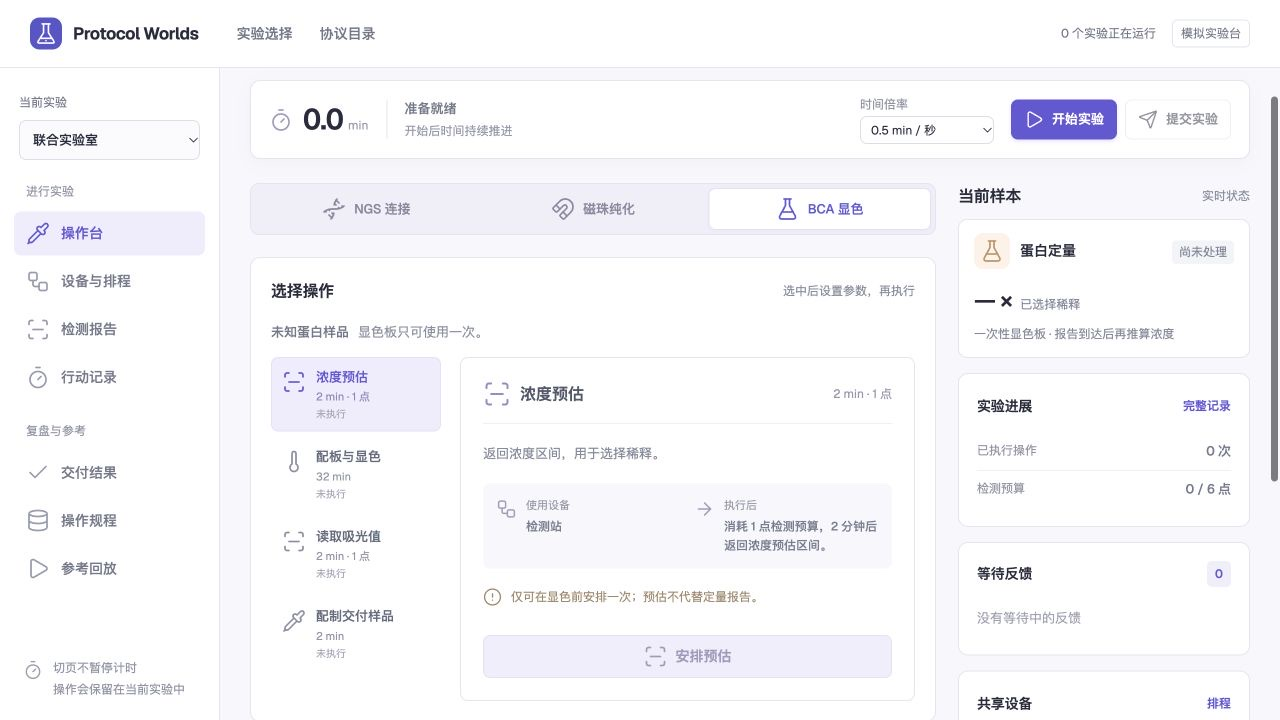
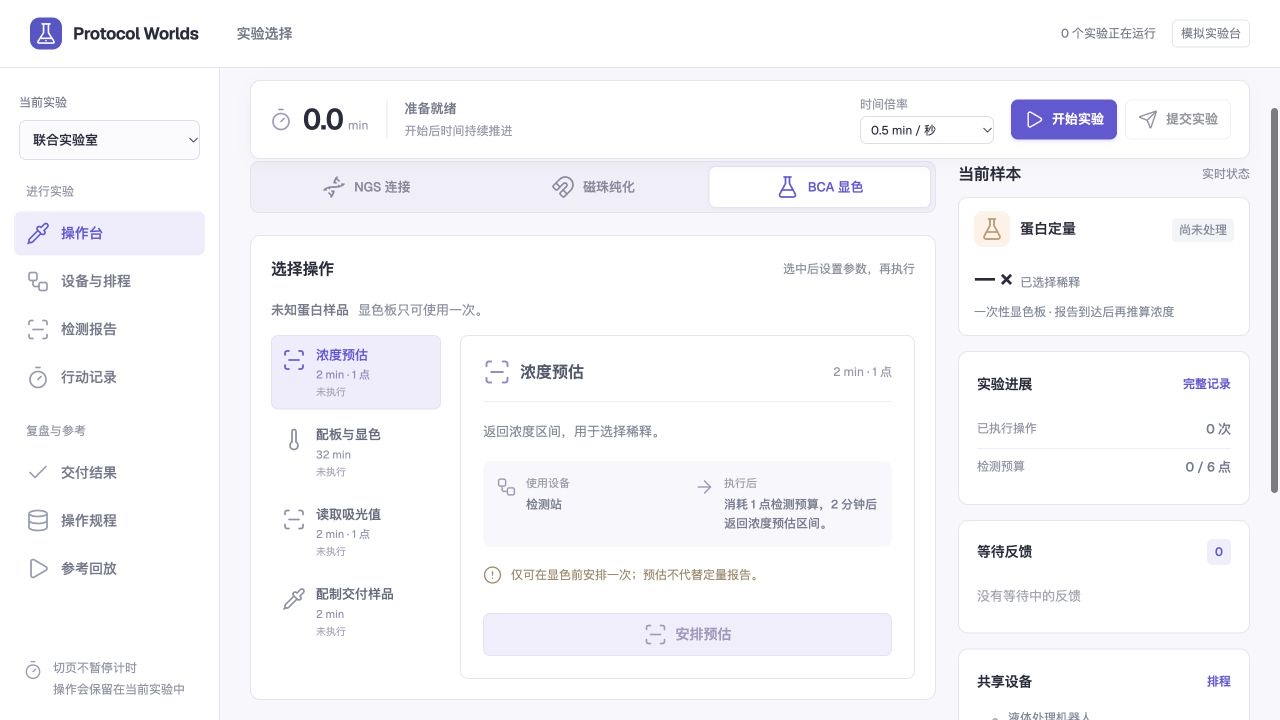
Remove protocol catalog from public lab demo

diff --git a/science-lab/lab/layout.css b/science-lab/lab/layout.css
@@ -133,10 +133,10 @@ h3 { font-size: 15px; }
 .sidebar-bottom .icon { width: 20px; height: 20px; margin-top: 2px; }
 .main-shell { grid-column: 2; grid-row: 2; min-width: 0; }
 main { width: 100%; max-width: 1440px; margin: 0 auto; padding: 27px 30px 48px; min-width: 0; }
-.app-shell[data-page='experiments'], .app-shell[data-page='catalog'] { grid-template-columns: minmax(0, 1fr); }
-.app-shell[data-page='experiments'] .sidebar, .app-shell[data-page='catalog'] .sidebar { display: none; }
-.app-shell[data-page='experiments'] .main-shell, .app-shell[data-page='catalog'] .main-shell { grid-column: 1; }
-.app-shell[data-page='experiments'] main, .app-shell[data-page='catalog'] main { max-width: 1240px; padding-top: 48px; }
+.app-shell[data-page='experiments'] { grid-template-columns: minmax(0, 1fr); }
+.app-shell[data-page='experiments'] .sidebar { display: none; }
+.app-shell[data-page='experiments'] .main-shell { grid-column: 1; }
+.app-shell[data-page='experiments'] main { max-width: 1240px; padding-top: 48px; }
 .mobile-menu { display: none; }
 
 /* Choosing an experiment is a separate, spacious landing page. */
@@ -335,7 +335,6 @@ main { width: 100%; max-width: 1440px; margin: 0 auto; padding: 27px 30px 48px; 
 .page-heading { margin: 28px 0 23px; }
 .page-heading h2 { font-size: 22px; font-weight: 600; }
 .page-heading p { margin-top: 7px; color: #858a9c; font-size: 14px; }
-#catalog-view .page-heading { margin-top: 0; }
 #view-schedule > .panel + .panel { margin-top: 21px; }
 .equipment-panel #resources { display: grid; grid-template-columns: repeat(2, minmax(0, 1fr)); column-gap: 32px; }
 .resource { display: flex; justify-content: space-between; align-items: center; gap: 12px; padding: 12px 0; border-bottom: 1px solid #eeedf5; font-size: 13px; }
@@ -406,25 +405,6 @@ main { width: 100%; max-width: 1440px; margin: 0 auto; padding: 27px 30px 48px; 
 .replay summary { color: #8b80a9; }
 .replay ol { padding-left: 23px; }
 .replay li { margin: 9px 0; }
-.catalog-tools { display: flex; align-items: center; gap: 16px; margin: 27px 0 22px; }
-.search-field { display: flex; align-items: center; gap: 9px; flex: 1; min-width: 0; padding: 0 13px; border: 1px solid var(--line); border-radius: 7px; background: #fff; }
-.search-field .icon { color: #a5a8b7; }
-.search-field input { width: 100%; min-width: 0; min-height: 44px; padding-left: 0; border: 0; background: transparent; }
-.search-field:focus-within { outline: 3px solid #a39af0; outline-offset: 3px; }
-.search-field input:focus-visible { outline: none; }
-.filter-field { display: flex; align-items: center; gap: 10px; color: #8e93a5; font-size: 12px; }
-.filter-field select { min-height: 44px; max-width: 220px; font-size: 13px; }
-#catalog-count { color: #9197a8; font-size: 12px; white-space: nowrap; }
-.catalog-grid { display: grid; grid-template-columns: repeat(3, minmax(0, 1fr)); gap: 19px; }
-.catalog-card { min-width: 0; padding: 23px; border: 1px solid var(--line); border-radius: 10px; background: #fff; overflow-wrap: anywhere; }
-.catalog-card h2 { color: #687087; font-size: 15px; font-weight: 550; line-height: 1.65; }
-.catalog-card p { margin: 17px 0; color: #959aab; font-size: 13px; line-height: 1.8; }
-.catalog-card a { font-size: 13px; }
-.catalog-card details { margin-top: 18px; color: #9c9caf; font-size: 12px; }
-.tags { display: flex; flex-wrap: wrap; gap: 5px; margin-top: 13px; }
-.tags span { padding: 2px 6px; border-radius: 4px; background: #f4f4f9; color: #9699ad; font-size: 11px; }
-.catalog-empty { grid-column: 1 / -1; border: 1px dashed var(--line); border-radius: 10px; background: #fff; }
-
 /* The inspector drops below before the operation form becomes cramped. */
 @media (min-width: 1600px) {
   main { padding-right: 40px; padding-left: 40px; }
@@ -446,7 +426,6 @@ main { width: 100%; max-width: 1440px; margin: 0 auto; padding: 27px 30px 48px; 
   .run-actions button { padding-right: 10px; padding-left: 10px; }
   .topbar-meta { gap: 10px; }
   .sample-selector { align-items: flex-start; flex-direction: column; gap: 6px; }
-  .catalog-grid { grid-template-columns: repeat(2, minmax(0, 1fr)); }
 }
 @media (max-width: 1080px) {
   .topbar-meta #active-count { display: none; }
@@ -463,9 +442,6 @@ main { width: 100%; max-width: 1440px; margin: 0 auto; padding: 27px 30px 48px; 
   .experiment-card { padding: 22px; }
   .experiment-copy h2 { font-size: 18px; }
   .records-grid { grid-template-columns: minmax(0, 1fr); }
-  .catalog-tools { flex-wrap: wrap; }
-  .search-field { flex-basis: 100%; }
-  #catalog-count { margin-left: auto; }
 }
 @media (max-width: 800px) {
   .topbar { gap: 24px; }
@@ -497,7 +473,7 @@ main { width: 100%; max-width: 1440px; margin: 0 auto; padding: 27px 30px 48px; 
   .sidebar.open { display: flex; }
   .mobile-menu { display: inline-flex; min-height: 34px; padding: 5px; border: 0; background: #eeebfb; color: #8b7fc4; }
   main { padding: 19px 16px 32px; }
-  .app-shell[data-page='experiments'] main, .app-shell[data-page='catalog'] main { padding: 30px 18px 36px; }
+  .app-shell[data-page='experiments'] main { padding: 30px 18px 36px; }
   .breadcrumb { gap: 8px; margin-bottom: 18px; font-size: 11px; }
   .breadcrumb strong { max-width: 112px; overflow: hidden; text-overflow: ellipsis; white-space: nowrap; }
   .heading { gap: 12px; margin-bottom: 11px; }
@@ -591,12 +567,6 @@ main { width: 100%; max-width: 1440px; margin: 0 auto; padding: 27px 30px 48px; 
   .experiment-card.featured .experiment-card-end { grid-column: 1 / -1; grid-row: 2; justify-content: space-between; padding-top: 13px; border-top: 1px solid #dfd8f1; }
   .journey-guide { grid-template-columns: minmax(0, 1fr); gap: 23px; margin-top: 29px; padding-top: 26px; }
   .journey-guide > div { gap: 2px 13px; }
-  .catalog-tools { gap: 13px; }
-  .filter-field { gap: 9px; }
-  .filter-field select { max-width: 187px; min-height: 40px; font-size: 12px; }
-  #catalog-count { font-size: 11px; }
-  .catalog-grid { grid-template-columns: minmax(0, 1fr); gap: 15px; }
-  .catalog-card { padding: 21px; }
 }
 @media (max-width: 380px) {
   .topbar { gap: 10px; padding-right: 12px; padding-left: 12px; }

diff --git a/science-lab/lab/index.html b/science-lab/lab/index.html
@@ -7,16 +7,16 @@
   <meta name="description" content="选择科学实验，在持续计时的环境中操作、等待反馈并查看结果。">
   <link rel="icon" type="image/svg+xml" href="../mark.svg">
   <link rel="preload" href="../assets/fonts/geist-variable.woff2" as="font" type="font/woff2" crossorigin>
-  <link rel="stylesheet" href="style.css?v=pages-8">
-  <link rel="stylesheet" href="layout.css?v=pages-8">
-  <script type="module" src="app.mjs?v=pages-8"></script>
+  <link rel="stylesheet" href="style.css?v=pages-9">
+  <link rel="stylesheet" href="layout.css?v=pages-9">
+  <script type="module" src="app.mjs?v=pages-9"></script>
 </head>
 <body>
 <a href="#main" class="skip-link">跳到工作区</a>
 <div class="app-shell" data-page="experiments">
   <header class="topbar">
     <a class="brand" href="../" aria-label="返回 Protocol Worlds 项目首页"><img src="../mark.svg" alt="" width="32" height="32"><span>Protocol Worlds</span></a>
-    <nav class="global-nav" aria-label="工作台导航"><a href="#experiments" data-global="experiments">实验选择</a><a href="#catalog" data-global="catalog">协议目录</a></nav>
+    <nav class="global-nav" aria-label="工作台导航"><a href="#experiments" data-global="experiments">实验选择</a></nav>
     <div class="topbar-meta"><span id="active-count">没有运行中的实验</span><span class="demo-label">模拟实验台</span></div>
   </header>
   <aside class="sidebar" id="sidebar">
@@ -84,10 +84,6 @@
           <div class="page-heading"><h2>参考回放</h2><p>查看已保存的作者策略；不会改变当前实验。</p></div>
           <section class="panel replay"><label for="replay-select">选择回放</label><select id="replay-select"></select><div id="replay-output"></div></section>
         </section>
-      </section>
-      <section id="catalog-view" hidden>
-        <div class="page-heading"><span class="page-label">来源索引</span><h1>协议目录</h1><p>搜索公开协议与已提取的代码节点。</p></div>
-        <div class="catalog-tools"><label class="search-field"><span data-icon="search"></span><input id="search" aria-label="搜索协议" placeholder="搜索名称、NGS、RNA、BCA…"></label><label class="filter-field"><span>索引范围</span><select id="filter"><option value="all">全部公开记录</option><option value="detail">已索引详细代码</option><option value="delay">有等待 / 人工交接节点</option><option value="verified">带来源验证标记</option></select></label><span id="catalog-count"></span></div><div id="catalog" class="catalog-grid"></div>
       </section>
     </main>
   </div>

diff --git a/science-lab/README.md b/science-lab/README.md
@@ -17,7 +17,6 @@ uv run --no-project python -m http.server 8782 --bind 127.0.0.1
 - `index.html`、`project.css`、`project.mjs`：项目首页、排程对照、场景入口和环境机制。
 - `lab/`：实验工作台的静态白名单副本。实验引擎与规则沿用现有版本，品牌入口返回项目首页。
 - `lab/replays.json`：8 份已保存的作者开发回放；不是模型 rollout。
-- `lab/catalog.json`：265 条公开协议元数据，其中 24 条含静态代码节点索引。316 个接口目录 ID 尚未完全对齐。
 - `lab/icons/LICENSE`：Lucide / Feather 图标许可。
 - `assets/`：首屏概念配图、实验台实际截图，以及本地 Geist 字体和 OFL 许可。
 
@@ -29,7 +28,7 @@ uv run --no-project python -m http.server 8782 --bind 127.0.0.1
 
 ## 实验台页面与连续状态
 
-实验选择入口为 `lab/#experiments`。每个实验可独立切换操作台、设备与排程、检测报告、行动记录、交付结果、操作规程和参考回放，例如 `lab/#joint/operate`、`lab/#joint/schedule`。旧的 `#joint`、`#ngs` 等入口仍直接进入操作台。
+实验选择入口为 `lab/#experiments`。公开演示已移除协议目录，旧 `#catalog` 地址转回实验选择。每个实验可独立切换操作台、设备与排程、检测报告、行动记录、交付结果、操作规程和参考回放，例如 `lab/#joint/operate`、`lab/#joint/schedule`。旧的 `#joint`、`#ngs` 等入口仍直接进入操作台。
 
 操作台只展开当前工作流和选中操作的参数，右侧显示操作次数、预算、待到达反馈与设备状态。切换页面、工作流或实验会保留参数选择；实验引擎实例不因路由切换而重建。结果与历史按实验分别展示。
 
@@ -49,7 +48,7 @@ uv run --no-project python -m http.server 8782 --bind 127.0.0.1
 
 ## 数据来源与边界
 
-来源入口：[Opentrons Protocol Library](https://library.opentrons.com/)。各实验所引用的原始规程及作者补充假设，见实验台“操作规程”和“参考回放”。这里只提供公开元数据、来源链接和代码节点位置，不转载完整第三方协议脚本。
+来源入口：[Opentrons Protocol Library](https://library.opentrons.com/)。各实验所引用的原始规程及作者补充假设，见实验台“操作规程”和“参考回放”。这里只展示四个交互实验和其来源链接，不转载完整第三方协议脚本。
 
 演示的时间、资源、材料和评分规则在作者侧可查看，不用于正式隔离 Solver 测试。模拟失败表示未满足本演示契约，不能推断实际生物产率或模型能力。正式评测需要独立可信后端、隐藏评分和公开文件白名单。GitHub Pages 仅承载静态演示，不承载研究侧 stdio MCP 服务；可用浏览器的 WebMCP 能力是可选接口。
 
